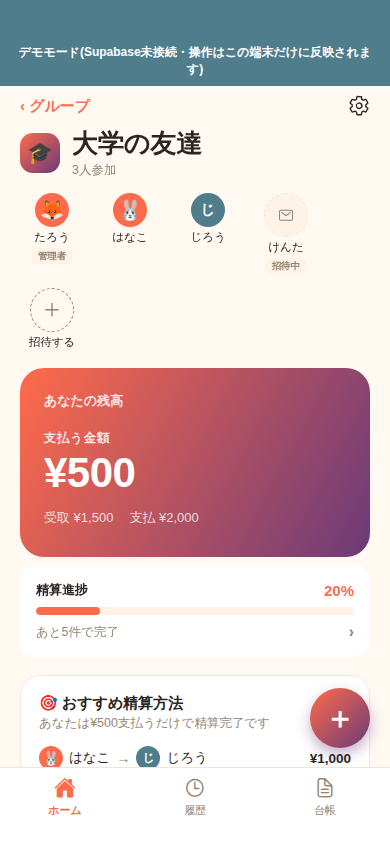
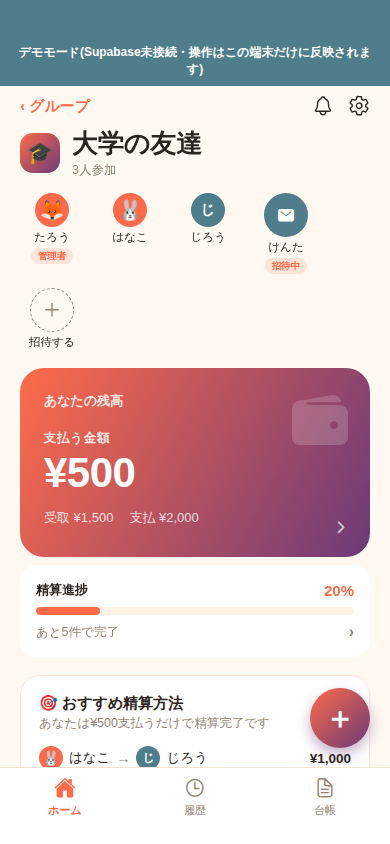
kashikari: 参考UI画像により忠実に近づける細部調整
「送ったUI画像にして。そっちの方がいい」という指摘への対応。前回の
UIリニューアルで見送っていた部分を含め、参考画像と見比べて細部を
合わせ直した。スキーマ変更なし。

- 通知ベルアイコンをヘッダーに追加(歯車アイコンの左)。通知を貯める
  仕組みはまだ無いため、タップすると「通知機能は準備中です」という
  トーストを出す(押しても無反応にはしない)
- 残高ヒーローカードに財布アイコン(装飾)とシェブロンを追加
  (src/components/NetSummary.tsx)
- 「管理者」「招待中」バッジの配色を、目立たないグレーから参考画像
  通りの暖色(オレンジ系)に変更。招待中の相手のアイコンも、点線の
  薄い円から塗りつぶし円(封筒アイコン)に変更
- ヘッダーの「抜ける」テキストボタンを廃止し、歯車アイコンタップ時の
  メニュー(設定/抜ける/キャンセル)に統合。参考画像のヘッダーが
  アイコンのみで構成されているのに合わせた
- 招待モーダルのアイコンを、グラデーションの丸バッジから、白い円+
  封筒アイコン+右上の「＋」バッジ(参考画像と同じ構成)に変更
  (src/components/InviteModal.tsx)
- グループ一覧画面(GroupsScreen.tsx)の設定アイコンも絵文字から
  Ioniconsに統一

DemoGroupScreen.tsx側もGroupScreen.tsxと同じ内容にミラーした。
tsc --noEmit / expo export --platform web(通常+デモモード)とも
問題なし。Playwrightで通知トースト用のアイコン配置・残高カードの
装飾・バッジ配色・招待モーダルの見た目を確認済み。

Claude-Session: https://claude.ai/code/session_016w6H5fipiVvbtfX7sgu87W

diff --git a/personal-side-projects/kashikari/mobile/src/screens/GroupScreen.tsx b/personal-side-projects/kashikari/mobile/src/screens/GroupScreen.tsx
@@ -16,6 +16,7 @@ import InviteModal from '../components/InviteModal';
 import Mark from '../components/Mark';
 import NetSummary from '../components/NetSummary';
 import SettlementProgress from '../components/SettlementProgress';
+import Toast from '../components/Toast';
 import UnpaidMembersModal from '../components/UnpaidMembersModal';
 import { useGroupData } from '../hooks/useGroupData';
 import { useT } from '../i18n';
@@ -64,6 +65,7 @@ export default function GroupScreen({ group, meId, justCreated, onBack, onLeave,
   const [tab, setTab] = useState<Tab>('balance');
   const [showSettled, setShowSettled] = useState(false);
   const [unpaidModalOpen, setUnpaidModalOpen] = useState(false);
+  const [notifToastVisible, setNotifToastVisible] = useState(false);
 
   const nameOf = (id: string) => members.find((m) => m.id === id)?.display_name ?? t.group.unknownMember;
   const emojiOf = (id: string) => members.find((m) => m.id === id)?.avatar_emoji ?? null;
@@ -244,6 +246,17 @@ export default function GroupScreen({ group, meId, justCreated, onBack, onLeave,
     ]);
   };
 
+  // 参考UIのヘッダーにはアイコンだけが並び、「抜ける」のテキストボタンは
+  // 無い。抜ける操作自体は無くさず、歯車アイコンをタップしたときの
+  // メニュー(設定/抜ける)に格納する形にした。
+  const openGroupMenu = () => {
+    Alert.alert(group.name, undefined, [
+      { text: t.groups.settingsButton, onPress: onOpenSettings },
+      { text: t.group.leave, style: 'destructive', onPress: leave },
+      { text: t.common.cancel, style: 'cancel' },
+    ]);
+  };
+
   const pendingInvites = useMemo(() => invites.filter((i) => i.status === 'pending'), [invites]);
 
   const header = (
@@ -253,10 +266,10 @@ export default function GroupScreen({ group, meId, justCreated, onBack, onLeave,
           <Text style={styles.back}>{t.group.back}</Text>
         </Pressable>
         <View style={styles.headerRightRow}>
-          <Pressable onPress={leave} hitSlop={10}>
-            <Text style={styles.leave}>{t.group.leave}</Text>
+          <Pressable onPress={() => setNotifToastVisible(true)} hitSlop={10}>
+            <Ionicons name="notifications-outline" size={22} color={colors.ink} />
           </Pressable>
-          <Pressable onPress={onOpenSettings} hitSlop={10} accessibilityLabel={t.groups.settingsButton}>
+          <Pressable onPress={openGroupMenu} hitSlop={10} accessibilityLabel={t.groups.settingsButton}>
             <Ionicons name="settings-outline" size={22} color={colors.ink} />
           </Pressable>
         </View>
@@ -299,7 +312,7 @@ export default function GroupScreen({ group, meId, justCreated, onBack, onLeave,
         {pendingInvites.map((invite) => (
           <View key={invite.id} style={styles.memberSlot}>
             <View style={[styles.avatarCircle, styles.pendingCircle]}>
-              <Ionicons name="mail-outline" size={16} color={colors.muted} />
+              <Ionicons name="mail" size={18} color="#fff" />
             </View>
             <Text style={styles.memberSlotName} numberOfLines={1}>
               {invite.invited_name}
@@ -444,6 +457,7 @@ export default function GroupScreen({ group, meId, justCreated, onBack, onLeave,
           onClose={() => setUnpaidModalOpen(false)}
         />
       )}
+      <Toast message={t.group.notificationsComingSoon} visible={notifToastVisible} onHide={() => setNotifToastVisible(false)} />
     </View>
   );
 }
@@ -454,7 +468,6 @@ const styles = StyleSheet.create({
   headerRow: { marginTop: 44, marginBottom: 4, flexDirection: 'row', justifyContent: 'space-between', alignItems: 'center' },
   headerRightRow: { flexDirection: 'row', alignItems: 'center', gap: 14 },
   back: { ...fonts.bodySemiBold, fontSize: 15, color: colors.accent },
-  leave: { ...fonts.bodyMedium, fontSize: 12.5, color: colors.muted },
   titleRow: { flexDirection: 'row', alignItems: 'center', gap: 12, marginTop: 4, marginBottom: 14 },
   titleTextCol: { flexShrink: 1 },
   title: { ...fonts.display, fontSize: 26, color: colors.ink },
@@ -462,8 +475,8 @@ const styles = StyleSheet.create({
   memberStrip: { flexDirection: 'row', flexWrap: 'wrap', gap: 14, marginBottom: 18 },
   memberSlot: { alignItems: 'center', width: 64, gap: 3 },
   memberSlotName: { ...fonts.bodyMedium, fontSize: 11.5, color: colors.ink, maxWidth: 62 },
-  adminBadge: { backgroundColor: colors.surface2, borderRadius: 999, paddingVertical: 1.5, paddingHorizontal: 7 },
-  adminBadgeText: { ...fonts.bodySemiBold, fontSize: 9.5, color: colors.muted },
+  adminBadge: { backgroundColor: colors.accentSoft, borderRadius: 999, paddingVertical: 1.5, paddingHorizontal: 7 },
+  adminBadgeText: { ...fonts.bodySemiBold, fontSize: 9.5, color: colors.accent },
   avatarCircle: {
     width: 44,
     height: 44,
@@ -471,9 +484,9 @@ const styles = StyleSheet.create({
     alignItems: 'center',
     justifyContent: 'center',
   },
-  pendingCircle: { backgroundColor: colors.surface2, borderWidth: 1.5, borderColor: colors.line, borderStyle: 'dashed' },
-  pendingBadge: { backgroundColor: colors.surface2, borderRadius: 999, paddingVertical: 1.5, paddingHorizontal: 7 },
-  pendingBadgeText: { ...fonts.bodySemiBold, fontSize: 9.5, color: colors.muted },
+  pendingCircle: { backgroundColor: colors.favor },
+  pendingBadge: { backgroundColor: colors.accentSoft, borderRadius: 999, paddingVertical: 1.5, paddingHorizontal: 7 },
+  pendingBadgeText: { ...fonts.bodySemiBold, fontSize: 9.5, color: colors.accent },
   addCircle: { borderWidth: 1.5, borderColor: colors.muted, borderStyle: 'dashed' },
   sectionTitle: {
     ...fonts.bodySemiBold,

diff --git a/personal-side-projects/kashikari/mobile/src/demo/DemoGroupScreen.tsx b/personal-side-projects/kashikari/mobile/src/demo/DemoGroupScreen.tsx
@@ -18,6 +18,7 @@ import InviteModal from '../components/InviteModal';
 import Mark from '../components/Mark';
 import NetSummary from '../components/NetSummary';
 import SettlementProgress from '../components/SettlementProgress';
+import Toast from '../components/Toast';
 import UnpaidMembersModal from '../components/UnpaidMembersModal';
 import { useT } from '../i18n';
 import { computeBalances, computeMyNet, computeSimplifiedSettlement } from '../lib/balances';
@@ -44,6 +45,7 @@ export default function DemoGroupScreen({ onBack, onOpenSettings }: { onBack: ()
   const [unpaidModalOpen, setUnpaidModalOpen] = useState(false);
   const [inviteModalOpen, setInviteModalOpen] = useState(false);
   const [invites, setInvites] = useState<GroupInvite[]>([]);
+  const [notifToastVisible, setNotifToastVisible] = useState(false);
   const meId = DEMO_ME_ID;
   const me = members.find((m) => m.id === meId);
 
@@ -282,9 +284,14 @@ export default function DemoGroupScreen({ onBack, onOpenSettings }: { onBack: ()
         <Pressable onPress={onBack} hitSlop={10}>
           <Text style={styles.back}>{t.group.back}</Text>
         </Pressable>
-        <Pressable onPress={onOpenSettings} hitSlop={10} accessibilityLabel={t.groups.settingsButton}>
-          <Ionicons name="settings-outline" size={22} color={colors.ink} />
-        </Pressable>
+        <View style={styles.headerRightRow}>
+          <Pressable onPress={() => setNotifToastVisible(true)} hitSlop={10}>
+            <Ionicons name="notifications-outline" size={22} color={colors.ink} />
+          </Pressable>
+          <Pressable onPress={onOpenSettings} hitSlop={10} accessibilityLabel={t.groups.settingsButton}>
+            <Ionicons name="settings-outline" size={22} color={colors.ink} />
+          </Pressable>
+        </View>
       </View>
       <Pressable onPress={() => setGroupIconPickerOpen(true)} style={styles.titleRow}>
         <Mark size={40} glyph={group.icon_emoji ?? undefined} />
@@ -324,7 +331,7 @@ export default function DemoGroupScreen({ onBack, onOpenSettings }: { onBack: ()
         {pendingInvites.map((invite) => (
           <View key={invite.id} style={styles.memberSlot}>
             <View style={[styles.avatarCircle, styles.pendingCircle]}>
-              <Ionicons name="mail-outline" size={16} color={colors.muted} />
+              <Ionicons name="mail" size={18} color="#fff" />
             </View>
             <Text style={styles.memberSlotName} numberOfLines={1}>
               {invite.invited_name}
@@ -491,6 +498,8 @@ export default function DemoGroupScreen({ onBack, onOpenSettings }: { onBack: ()
         onRemindSent={() => {}}
         onClose={() => setUnpaidModalOpen(false)}
       />
+
+      <Toast message={t.group.notificationsComingSoon} visible={notifToastVisible} onHide={() => setNotifToastVisible(false)} />
     </View>
   );
 }
@@ -501,6 +510,7 @@ const styles = StyleSheet.create({
   demoBannerText: { ...fonts.bodySemiBold, fontSize: 12, color: '#fff', textAlign: 'center' },
   list: { paddingHorizontal: 20, paddingBottom: 100 },
   headerRow: { marginBottom: 4, flexDirection: 'row', justifyContent: 'space-between', alignItems: 'center' },
+  headerRightRow: { flexDirection: 'row', alignItems: 'center', gap: 14 },
   back: { ...fonts.bodySemiBold, fontSize: 15, color: colors.accent },
   titleRow: { flexDirection: 'row', alignItems: 'center', gap: 12, marginTop: 4, marginBottom: 14 },
   titleTextCol: { flexShrink: 1 },
@@ -509,8 +519,8 @@ const styles = StyleSheet.create({
   memberStrip: { flexDirection: 'row', flexWrap: 'wrap', gap: 14, marginBottom: 18 },
   memberSlot: { alignItems: 'center', width: 64, gap: 3 },
   memberSlotName: { ...fonts.bodyMedium, fontSize: 11.5, color: colors.ink, maxWidth: 62 },
-  adminBadge: { backgroundColor: colors.surface2, borderRadius: 999, paddingVertical: 1.5, paddingHorizontal: 7 },
-  adminBadgeText: { ...fonts.bodySemiBold, fontSize: 9.5, color: colors.muted },
+  adminBadge: { backgroundColor: colors.accentSoft, borderRadius: 999, paddingVertical: 1.5, paddingHorizontal: 7 },
+  adminBadgeText: { ...fonts.bodySemiBold, fontSize: 9.5, color: colors.accent },
   avatarCircle: {
     width: 44,
     height: 44,
@@ -518,9 +528,9 @@ const styles = StyleSheet.create({
     alignItems: 'center',
     justifyContent: 'center',
   },
-  pendingCircle: { backgroundColor: colors.surface2, borderWidth: 1.5, borderColor: colors.line, borderStyle: 'dashed' },
-  pendingBadge: { backgroundColor: colors.surface2, borderRadius: 999, paddingVertical: 1.5, paddingHorizontal: 7 },
-  pendingBadgeText: { ...fonts.bodySemiBold, fontSize: 9.5, color: colors.muted },
+  pendingCircle: { backgroundColor: colors.favor },
+  pendingBadge: { backgroundColor: colors.accentSoft, borderRadius: 999, paddingVertical: 1.5, paddingHorizontal: 7 },
+  pendingBadgeText: { ...fonts.bodySemiBold, fontSize: 9.5, color: colors.accent },
   addCircle: { borderWidth: 1.5, borderColor: colors.muted, borderStyle: 'dashed' },
   sectionTitle: {
     ...fonts.bodySemiBold,

diff --git a/personal-side-projects/kashikari/mobile/src/components/InviteModal.tsx b/personal-side-projects/kashikari/mobile/src/components/InviteModal.tsx
@@ -1,5 +1,4 @@
 import { Ionicons } from '@expo/vector-icons';
-import { LinearGradient } from 'expo-linear-gradient';
 import { useState } from 'react';
 import { Modal, Pressable, StyleSheet, Text, TextInput, View } from 'react-native';
 
@@ -48,9 +47,12 @@ export default function InviteModal({ visible, onClose, onSubmit }: Props) {
       <View style={styles.backdrop}>
         <View style={styles.card}>
           <View style={styles.iconHeader}>
-            <LinearGradient colors={[colors.accent, colors.plum]} start={{ x: 0, y: 0 }} end={{ x: 1, y: 1 }} style={styles.iconBadge}>
-              <Ionicons name="person-add" size={26} color={colors.accentInk} />
-            </LinearGradient>
+            <View style={styles.iconBadge}>
+              <Ionicons name="mail" size={28} color={colors.accent} />
+            </View>
+            <View style={styles.addBadge}>
+              <Ionicons name="add" size={14} color="#fff" />
+            </View>
             <Ionicons name="sparkles" size={14} color={colors.accent} style={styles.sparkleTopRight} />
             <Ionicons name="sparkles" size={10} color={colors.plum} style={styles.sparkleBottomLeft} />
           </View>
@@ -89,7 +91,32 @@ const styles = StyleSheet.create({
   backdrop: { flex: 1, backgroundColor: 'rgba(20,15,10,0.45)', alignItems: 'center', justifyContent: 'center', padding: 24 },
   card: { width: '100%', backgroundColor: colors.surface, borderRadius: 18, padding: 20, alignItems: 'center' },
   iconHeader: { width: 64, height: 64, marginBottom: 14, alignItems: 'center', justifyContent: 'center' },
-  iconBadge: { width: 64, height: 64, borderRadius: 999, alignItems: 'center', justifyContent: 'center' },
+  iconBadge: {
+    width: 64,
+    height: 64,
+    borderRadius: 999,
+    backgroundColor: colors.surface,
+    alignItems: 'center',
+    justifyContent: 'center',
+    shadowColor: '#3c2814',
+    shadowOpacity: 0.12,
+    shadowRadius: 10,
+    shadowOffset: { width: 0, height: 4 },
+    elevation: 3,
+  },
+  addBadge: {
+    position: 'absolute',
+    top: -2,
+    right: -2,
+    width: 24,
+    height: 24,
+    borderRadius: 999,
+    backgroundColor: colors.favor,
+    alignItems: 'center',
+    justifyContent: 'center',
+    borderWidth: 2,
+    borderColor: colors.surface,
+  },
   sparkleTopRight: { position: 'absolute', top: -4, right: -6 },
   sparkleBottomLeft: { position: 'absolute', bottom: -2, left: -8 },
   title: { ...fonts.display, fontSize: 19, color: colors.ink, textAlign: 'center' },

diff --git a/personal-side-projects/kashikari/mobile/src/components/NetSummary.tsx b/personal-side-projects/kashikari/mobile/src/components/NetSummary.tsx
@@ -1,3 +1,4 @@
+import { Ionicons } from '@expo/vector-icons';
 import { LinearGradient } from 'expo-linear-gradient';
 import { StyleSheet, Text, View } from 'react-native';
 
@@ -43,6 +44,10 @@ export default function NetSummary({ totals, balances, meId }: Props) {
 
   return (
     <LinearGradient colors={[colors.accent, colors.plum]} start={{ x: 0, y: 0 }} end={{ x: 1, y: 1 }} style={styles.card}>
+      {/* 参考UIの残高カードに合わせて、右上に財布アイコン(装飾)・右下に
+          シェブロン(装飾。すぐ下に内訳セクションが続くため、タップ先は
+          別途持たせていない)を添えた。 */}
+      <Ionicons name="wallet" size={64} color="rgba(255,255,255,0.18)" style={styles.walletIcon} />
       <Text style={styles.heading}>{t.netSummary.heading}</Text>
       {totals.map((total, i) => {
         const owed = total.amount > 0; // 正値 = 自分が受け取る側(lib/balances.tsのNetTotal参照)
@@ -64,12 +69,15 @@ export default function NetSummary({ totals, balances, meId }: Props) {
           </View>
         );
       })}
+      <Ionicons name="chevron-forward" size={18} color="rgba(255,255,255,0.7)" style={styles.chevron} />
     </LinearGradient>
   );
 }
 
 const styles = StyleSheet.create({
-  card: { borderRadius: 24, padding: 24, marginBottom: 8 },
+  card: { borderRadius: 24, padding: 24, marginBottom: 8, overflow: 'hidden' },
+  walletIcon: { position: 'absolute', top: 18, right: 18 },
+  chevron: { position: 'absolute', bottom: 20, right: 20 },
   heading: {
     ...fonts.bodySemiBold,
     fontSize: 13,

diff --git a/personal-side-projects/kashikari/mobile/src/screens/GroupsScreen.tsx b/personal-side-projects/kashikari/mobile/src/screens/GroupsScreen.tsx
@@ -1,3 +1,4 @@
+import { Ionicons } from '@expo/vector-icons';
 import { useState } from 'react';
 import { FlatList, Pressable, RefreshControl, StyleSheet, Text, View } from 'react-native';
 
@@ -39,7 +40,7 @@ export default function GroupsScreen({
           <Mark size={34} />
           <Text style={styles.wordmark}>kashikari</Text>
           <Pressable onPress={onOpenSettings} hitSlop={10} style={styles.settingsBtn} accessibilityLabel={t.groups.settingsButton}>
-            <Text style={styles.settingsIcon}>⚙</Text>
+            <Ionicons name="settings-outline" size={22} color={colors.ink} />
           </Pressable>
         </View>
         <Text style={styles.hello}>{t.groups.hello(displayName)}</Text>
@@ -103,7 +104,6 @@ const styles = StyleSheet.create({
   brandRow: { flexDirection: 'row', alignItems: 'center', gap: 10 },
   wordmark: { ...fonts.display, fontSize: 28, color: colors.ink, flex: 1 },
   settingsBtn: { padding: 4 },
-  settingsIcon: { fontSize: 22 },
   hello: { ...fonts.body, fontSize: 14, color: colors.muted, marginTop: 8 },
   list: { paddingHorizontal: 20, paddingBottom: 24, gap: 10, flexGrow: 1 },
   empty: { alignItems: 'center', paddingTop: 60 },

diff --git a/personal-side-projects/kashikari/mobile/src/i18n/strings.ts b/personal-side-projects/kashikari/mobile/src/i18n/strings.ts
@@ -82,6 +82,7 @@ export const ja = {
       `「${groupName}」の記録は他のメンバーの画面には残りますが、あなたはこのグループのデータにアクセスできなくなります。`,
     leaveConfirmButton: '抜ける',
     leaveFailedTitle: '抜けられませんでした',
+    notificationsComingSoon: '通知機能は準備中です。もうしばらくお待ちください。',
   },
   groupForm: {
     createTitle: '新しいグループ',
@@ -332,6 +333,7 @@ export const en: Strings = {
       `Your records in "${groupName}" will stay visible to other members, but you'll lose access to this group's data.`,
     leaveConfirmButton: 'Leave',
     leaveFailedTitle: "Couldn't leave the group",
+    notificationsComingSoon: 'Notifications are coming soon. Hang tight!',
   },
   groupForm: {
     createTitle: 'New group',
